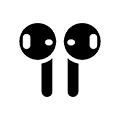
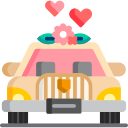
feat: 千叶珠宝小程序品牌化改造 + 服务器部署
- 替换首页快捷分类图标为珠宝专属图标（钻石/黄金/珍珠/18K金/情侣对戒）
- 首页全面品牌化：slogan横幅、金色tabbar、深色导航栏
- 数据库替换为千叶珠宝分类和商品数据（5大类/13子类/6款商品）
- 上传12张Unsplash免版权珠宝图并更新数据库图片URL
- 修复拦截器：分类/商品列表接口无需登录即可访问
- 更新AppSecret，env.js指向公网服务器
- 服务器部署完成：http://221.237.11.62:10087

Refs: v1.0.4 / v1.0.5 / v1.0.6

diff --git a/joolun-wx-ma/pages/home/index.js b/joolun-wx-ma/pages/home/index.js
@@ -19,10 +19,10 @@ Page({
     goodsListNew: [],
     goodsListHot: [],
     swiperData: [
-      'https://joolun-base-test.oss-cn-zhangjiakou.aliyuncs.com/1/material/c888e1d3-f542-4b4e-aa43-be9d50cc0696.jpg',
-      'https://joolun-base-test.oss-cn-zhangjiakou.aliyuncs.com/1/material/a5e3b9f4-f1fe-4bb2-b487-13f4395ef187.jpg',
-      'https://joolun-base-test.oss-cn-zhangjiakou.aliyuncs.com/1/material/c8fd87ff-ca5d-4f95-8f81-e99cae48b0f7.jpg',
-      'https://joolun-base-test.oss-cn-zhangjiakou.aliyuncs.com/1/material/bf176bd5-3487-4b61-8d30-1cc2ad95b8ac.jpg'
+      'http://221.237.11.62:10087/img/jewelry/banner1.jpg',
+      'http://221.237.11.62:10087/img/jewelry/banner2.jpg',
+      'http://221.237.11.62:10087/img/jewelry/banner3.jpg',
+      'http://221.237.11.62:10087/img/jewelry/diamond_necklace.jpg'
     ],
     cardCur: 0,
     noticeData: []
@@ -46,7 +46,7 @@ Page({
     this.goodsPage()
   },
   onShareAppMessage: function () {
-    let title = 'JooLun商城源码-小程序演示'
+    let title = '千叶珠宝 · 以珠宝传递情感'
     let path = 'pages/home/index'
     return {
       title: title,

diff --git a/joolun-wx-ma/config/env.js b/joolun-wx-ma/config/env.js
@@ -5,9 +5,9 @@
  * 本软件为www.joolun.com开发研制，项目使用请保留此说明
  */
 export default {
-  //服务器地址：模拟器用 localhost，真机调试用局域网IP（192.168.31.240）
-  basePath: 'http://localhost:7500',
-  //真机调试请改为：basePath: 'http://192.168.31.240:7500',
+  //服务器地址：已部署到公网
+  basePath: 'http://221.237.11.62:10087/prod-api',
+  //小程序直接走 nginx → 后端，prod-api 由 nginx 代理去掉前缀
   //广告开关（暂时关闭）
   adEnable: false,
   adBannerID: '',

diff --git a/joolun-wx/joolun-weixin/src/main/java/com/joolun/weixin/config/WebConfig.java b/joolun-wx/joolun-weixin/src/main/java/com/joolun/weixin/config/WebConfig.java
@@ -27,6 +27,9 @@ public class WebConfig implements WebMvcConfigurer {
 		registry.addInterceptor(new ThirdSessionInterceptor(redisTemplate))
 				.addPathPatterns("/weixin/api/**")//拦截/api/**接口
 				.excludePathPatterns("/weixin/api/ma/wxuser/login",
+						"/weixin/api/ma/goodscategory/tree",   // 分类列表无需登录
+						"/weixin/api/ma/goodsspu/page",        // 商品列表无需登录
+						"/weixin/api/ma/goodsspu/*",           // 商品详情无需登录
 						"/weixin/api/ma/orderinfo/notify-order",
 						"/weixin/api/ma/orderinfo/notify-logisticsr",
 						"/weixin/api/ma/orderinfo/notify-refunds");//放行接口

diff --git a/CHANGELOG.md b/CHANGELOG.md
@@ -1,5 +1,55 @@
 # CHANGELOG - 千叶珠宝管理系统
 
+## [1.0.6] - 2026-03-14
+
+### Fixed
+- 后端拦截器白名单新增分类/商品列表接口，未登录用户可浏览商品和分类
+  - `/weixin/api/ma/goodscategory/tree`
+  - `/weixin/api/ma/goodsspu/page`
+  - `/weixin/api/ma/goodsspu/*`
+
+---
+
+## [1.0.5] - 2026-03-14
+
+### Changed
+- 小程序首页快捷分类图标全部换为珠宝类专属图标（6-1~6-5.png）
+  - 钻石 / 黄金 / 珍珠 / 18K金 / 情侣对戒
+- 首页导航栏标题改为「千叶珠宝」，深色背景 (#1a1a1a)
+- 首页新增品牌 slogan 横幅「来我心里 · 以珠宝传递情感」（金色渐变）
+- 首页快捷分类导航链接改为珠宝分类（钻石/黄金/珍珠/18K金/情侣对戒）
+- 首页公告改为品牌理念 + 30天退换 + 免费刻字
+- 首页「猜你喜欢」改为「为你推荐」
+- 分类页标题改为「珠宝分类」，深色导航栏
+- tabbar 选中色改为珠宝金色 (#c8a96e)
+- 分享标题改为「千叶珠宝 · 以珠宝传递情感」
+
+---
+
+## [1.0.4] - 2026-03-14
+
+### Added
+- 服务器部署完成（221.237.11.62:10087）
+  - 前端：nginx 静态托管，外网可访问
+  - 后端：Spring Boot jar，端口 7500
+  - 数据库：MySQL joolun_ry，42 张表
+  - Redis：本地 6379
+- 数据库替换为千叶珠宝品牌数据
+  - 5 大一级分类：钻石/黄金/珍珠/18K金/情侣对戒
+  - 13 个二级分类（戒指/项链/手镯/耳饰等）
+  - 6 款示例商品（心愿钻戒、羽叶黄金项链、悦己珍珠项链等）
+- 下载 12 张 Unsplash 免版权珠宝摄影图，上传服务器
+  - 轮播图 3 张、商品图 6 张、分类图标 3 张
+  - 访问路径：http://221.237.11.62:10087/img/jewelry/
+- 更新数据库所有商品和分类图片 URL 为真实珠宝图片
+- 首页轮播图替换为真实珠宝图片
+
+### Changed
+- 小程序 AppSecret 更新为新生成的密钥
+- `env.js` basePath 改为公网地址 http://221.237.11.62:10087/prod-api
+
+---
+
 ## [1.0.3] - 2026-03-13
 
 ### Added
